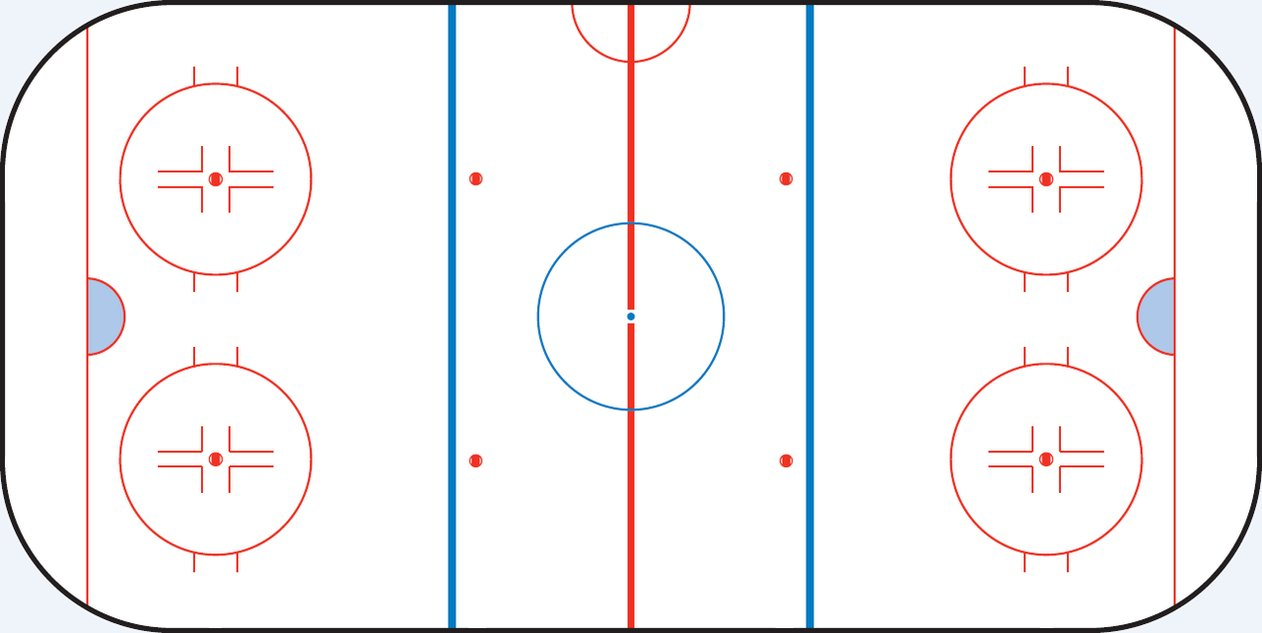
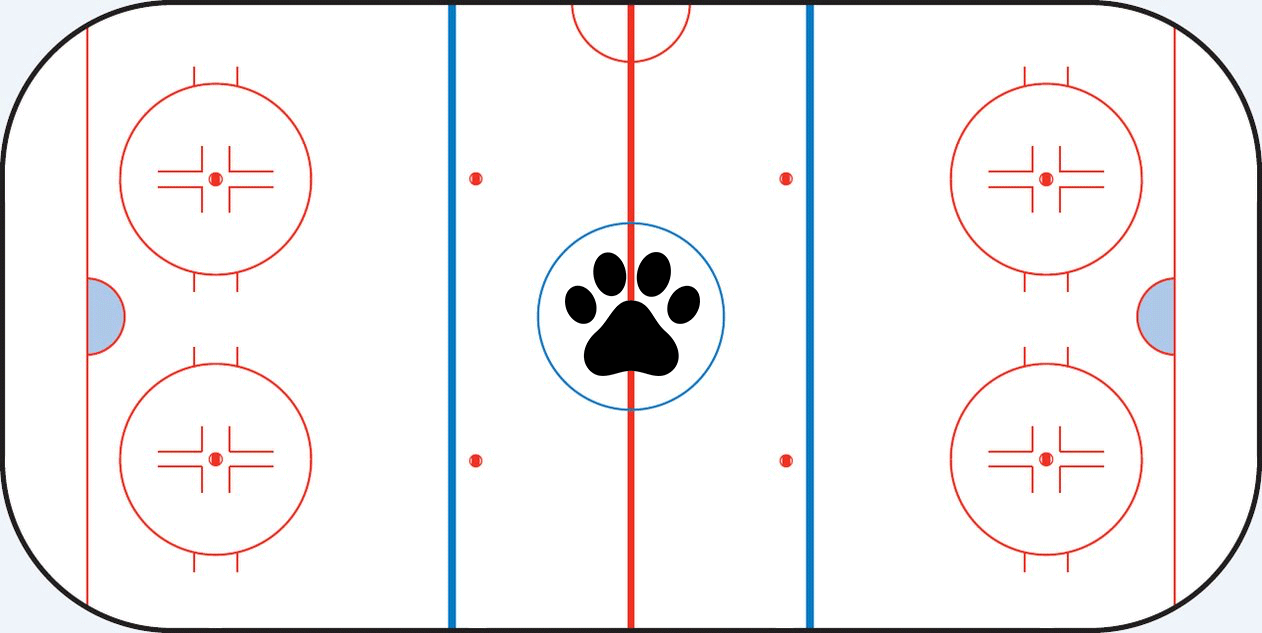
Dogs on map

Changed region(s): [[0.4326, 0.3902, 0.5563, 0.6003]]

diff --git a/frontend/src/script/controller/user/map.js b/frontend/src/script/controller/user/map.js
@@ -15,21 +15,63 @@ define([
         '$dog',
         function Controller($scope, $keycloak, $state, $interval, $dog) {
 
+		    var iconBlack = {
+		        url: '/image/map-marker_dog-black.svg',
+		        origin: new google.maps.Point(0, 0)
+		    };
+
+		    var iconRed = {
+		        url: '/image/map-marker_dog-red.svg',
+		        origin: new google.maps.Point(0, 0)
+		    };
+
+        	var dogs;
+        	var map;
+        	var markers = [];
             var dogsRefresh = function () { 
 	            
-	            if (!$scope.dogs) {	            	
+	            if (!dogs) {	            	
 		            // Set the dogs to scope once its ready
-		            $dog.then(function (dogs) {
-		                $scope.dogs = dogs;
+		            $dog.then(function (dogsNew) {
+		                dogs = dogsNew;
 		            });
 	            } else {
-	            	$scope.dogs.getList();
+	            	dogs.getList().then(function (dogsNew) {
+	            		dogs = dogsNew;
+
+		                for (var length = dogs.length, i=0; i < length; i++) {
+		                	var dog = dogs[i];
+
+		                	var icon;
+		                	if (dog.owner && dog.owner.uuid == $scope.owner.uuid) {
+		                		icon = iconRed;
+		                	} else {
+		                		icon = iconBlack;
+		                	}
+
+		                	if (!markers[dog.id]) {
+				                markers[dog.id] = new google.maps.Marker({
+				                    position: new google.maps.LatLng(dog.latitude, dog.longitude),
+				                    map: map,
+				                    draggable: false,
+				                    title: "" + dog.id,
+				                    icon: icon
+				                });
+				            } else {
+				            	markers[dog.id].setPosition(new google.maps.LatLng(dog.latitude, dog.longitude));
+				            }			                			               
+			            }
+
+            
+	            	});
 	            }
 
             };
 
-            // Refresh dogs every 3 seconds
-            $interval(dogsRefresh, 3000);        	
+
+
+            // Refresh dogs every 1 seconds
+            var interval = $interval(dogsRefresh, 1000);        	
 
             $scope.map = {
                 control: {},
@@ -49,7 +91,7 @@ define([
 
             $scope.$watch('map.control', function (control) {
                 
-                var map = control.getGMap();
+                map = control.getGMap();
 
                 // var swBound = new google.maps.LatLng(0, 0);
                 // var neBound = new google.maps.LatLng(0.2, 0.4);
@@ -68,6 +110,13 @@ define([
                 //console.log(map);
 
             });
+
+
+            // Cleanup
+            $scope.$on("$destroy", function() {
+                $interval.cancel(interval);
+            });        
+
 
 
         }

diff --git a/frontend/src/view/user/profile.html b/frontend/src/view/user/profile.html
@@ -73,8 +73,8 @@
                                     <p><i class="fa fa-crosshairs fa-fw"></i> <strong>Location</strong></p>
                                 </div>
                                 <div class="col-xs-5">
-                                    <p>{{dog.locationY}}</p>
-                                    <p>{{dog.locationX}}</p>                                    
+                                    <p>{{dog.latitude}}</p>
+                                    <p>{{dog.longitude}}</p>                                    
                                 </div>
                             </div>
 

diff --git a/docker-sensor/dogsim.py b/docker-sensor/dogsim.py
@@ -4,10 +4,10 @@ import random
 
 s = requests.Session()
 
-xMin = -114.052700
-xMax = -114.051200
-yMin   = 51.037200
-yMax   = 51.037700
+longitudeMin = -114.052700
+longitudeMax = -114.051200
+latitudeMin   = 51.037200
+latitudeMax   = 51.037700
 
 temperatureMin = 38.3
 temperatureMax = 39.2
@@ -23,7 +23,7 @@ def entropy(value, min, max, step):
     resolution = 1 / step
 
     if value == None:
-        value = random.randrange(min * resolution, max * resolution, step * resolution) / resolution
+        value = random.uniform(min, max)
     else:
         value += (step * random.choice([-1,1]))
 
@@ -42,14 +42,14 @@ while True:
         dog = dogs.get(i)
 
         if not dog:
-            dogs[i] = dog = {'x': None, 'y': None, 'temperature': None, 'heartRate': None}
+            dogs[i] = dog = {'longitude': None, 'latitude': None, 'temperature': None, 'heartRate': None}
 
-        dog['x'] = entropy(dog['x'], xMin, xMax, 0.000001)
-        dog['y'] = entropy(dog['y'], yMin, yMax, 0.000001)
+        dog['longitude'] = entropy(dog['longitude'], longitudeMin, longitudeMax, 0.00001)
+        dog['latitude'] = entropy(dog['latitude'], latitudeMin, latitudeMax, 0.00001)
         dog['temperature'] = entropy(dog['temperature'], temperatureMin, temperatureMax, 0.1)
         dog['heartRate'] = entropy(dog['heartRate'], heartRateMin, heartRateMax, 1)
 
-        data = '{"heartRate":"%d","temperature":"%f","locationX":"%f","locationY":"%f","id":"%d"}' % (dog['heartRate'], dog['temperature'], dog['x'], dog['y'], i)
+        data = '{"heartRate":"%d","temperature":"%f","longitude":"%f","latitude":"%f","id":"%d"}' % (dog['heartRate'], dog['temperature'], dog['longitude'], dog['latitude'], i)
 
         try:
             r = s.put("%s/%d" % (url, i), data=data)
@@ -57,5 +57,5 @@ while True:
         except:
             pass # Server might not be up
 
-    time.sleep(3)
+    time.sleep(1)
 

diff --git a/backend/web/src/main/java/com/psidox/saddlewoof/web/model/Dog.java b/backend/web/src/main/java/com/psidox/saddlewoof/web/model/Dog.java
@@ -11,8 +11,8 @@ public class Dog {
     private Owner owner;
     private Integer heartRate;
     private Double temperature;
-    private Double locationX;
-    private Double locationY;
+    private Double longitude;
+    private Double latitude;
     private String name;
 
     @Id
@@ -53,22 +53,22 @@ public class Dog {
         this.temperature = temperature;
     }
 
-    @Column(name = "location_x")
-    public Double getLocationX() {
-        return locationX;
+    @Column
+    public Double getLongitude() {
+        return longitude;
     }
 
-    public void setLocationX(Double locationX) {
-        this.locationX = locationX;
+    public void setLongitude(Double longitude) {
+        this.longitude = longitude;
     }
 
-    @Column(name = "location_y")
-    public Double getLocationY() {
-        return locationY;
+    @Column
+    public Double getLatitude() {
+        return latitude;
     }
 
-    public void setLocationY(Double locationY) {
-        this.locationY = locationY;
+    public void setLatitude(Double latitude) {
+        this.latitude = latitude;
     }
 
     @Column(name = "name")

diff --git a/backend/web/src/main/java/com/psidox/saddlewoof/web/service/ServiceDog.java b/backend/web/src/main/java/com/psidox/saddlewoof/web/service/ServiceDog.java
@@ -52,8 +52,8 @@ public class ServiceDog {
 
         dog.setHeartRate(dogUpdated.getHeartRate());
         dog.setTemperature(dogUpdated.getTemperature());
-        dog.setLocationX(dogUpdated.getLocationX());
-        dog.setLocationY(dogUpdated.getLocationY());
+        dog.setLongitude(dogUpdated.getLongitude());
+        dog.setLatitude(dogUpdated.getLatitude());
 
         return dog;
 
